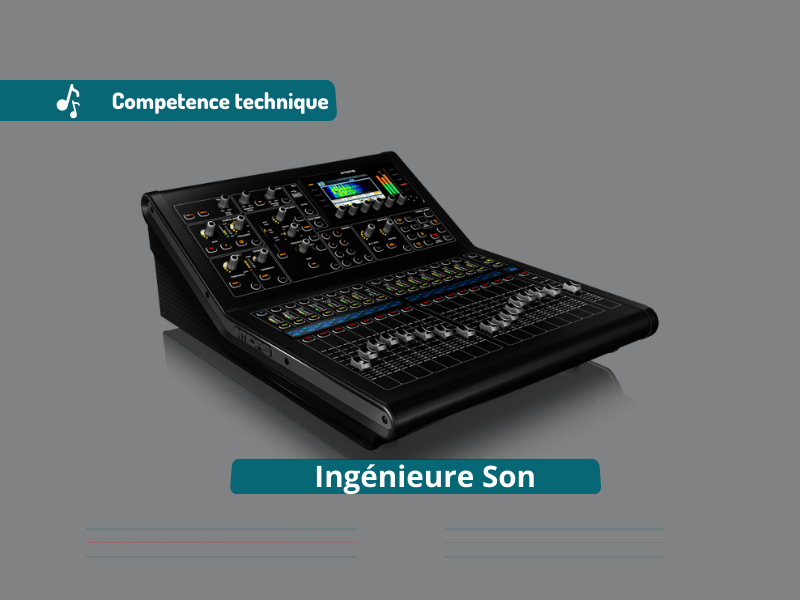
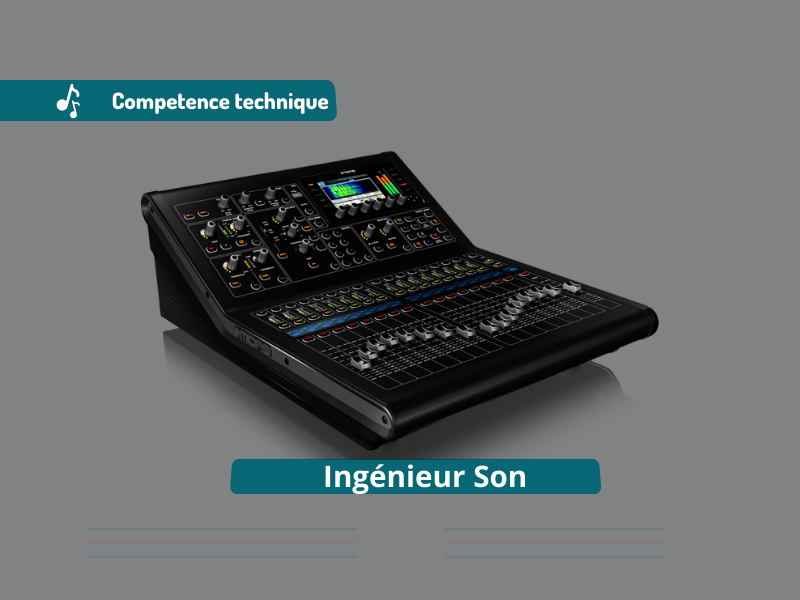
update ingénieur son

Changed region(s): [[0.375, 0.75, 0.6875, 0.84]]

diff --git a/Tech_DFProd.html b/Tech_DFProd.html
@@ -48,7 +48,7 @@
               <div class="swiper-wrapper align-items-center">
 
                 <div class="swiper-slide">
-                  <img src="assets/img/portfolio/comp_tech_music2.png" alt="">
+                  <img src="assets/img/portfolio/Ingénieure Son.png" alt="">
                 </div>
 
               </div>
